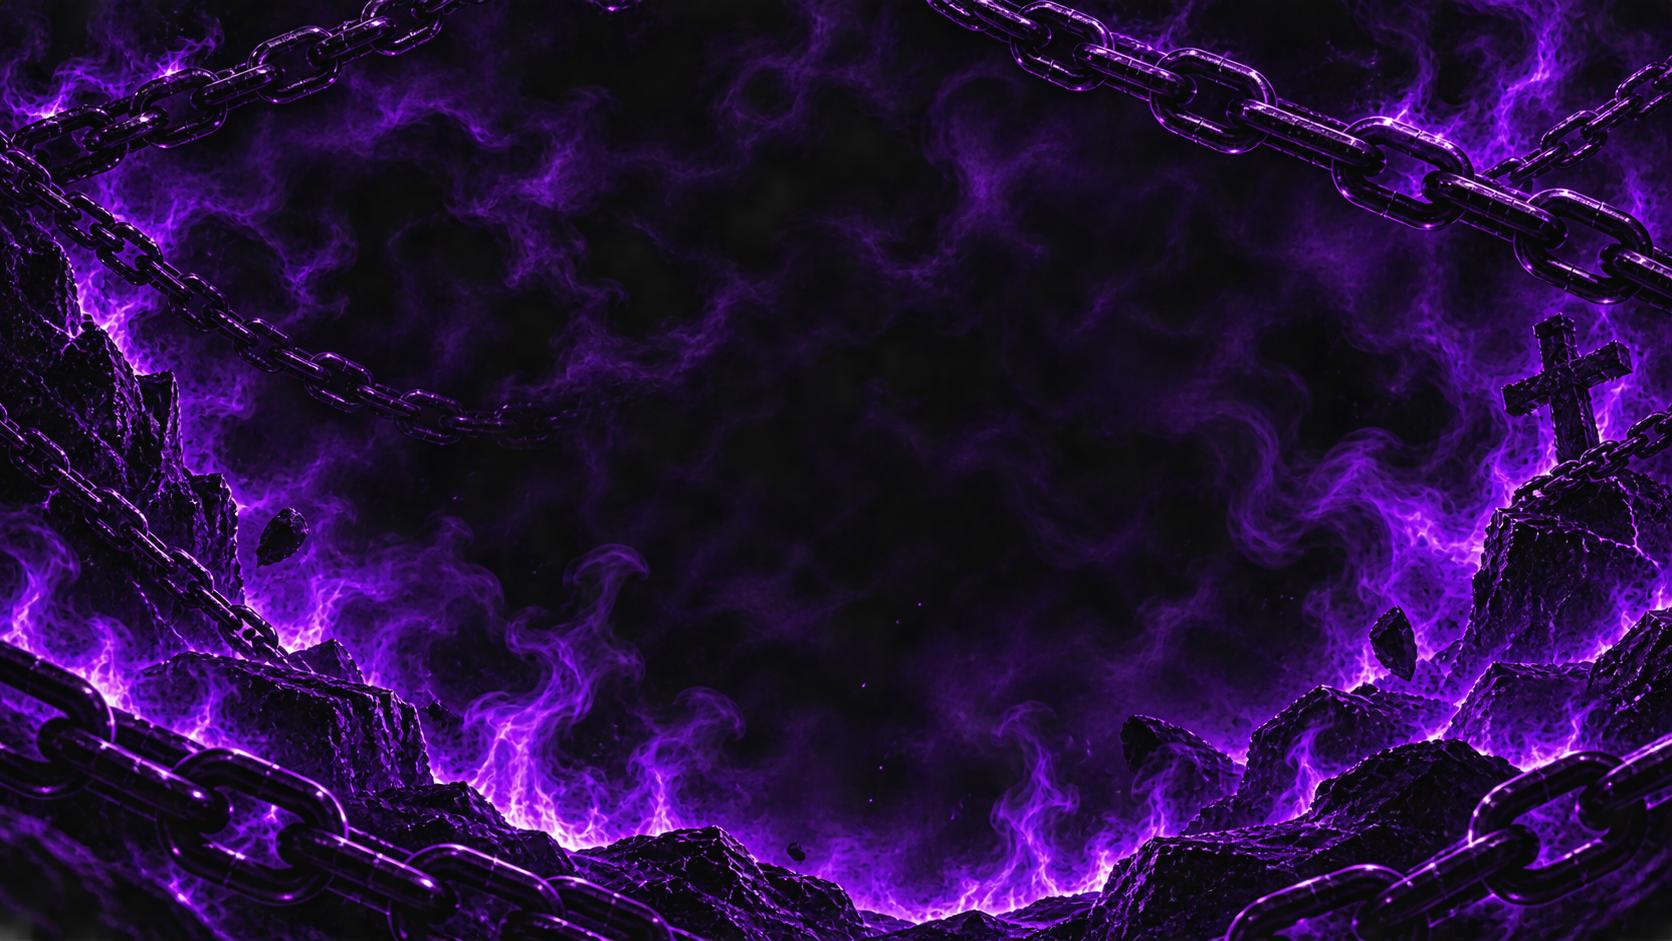
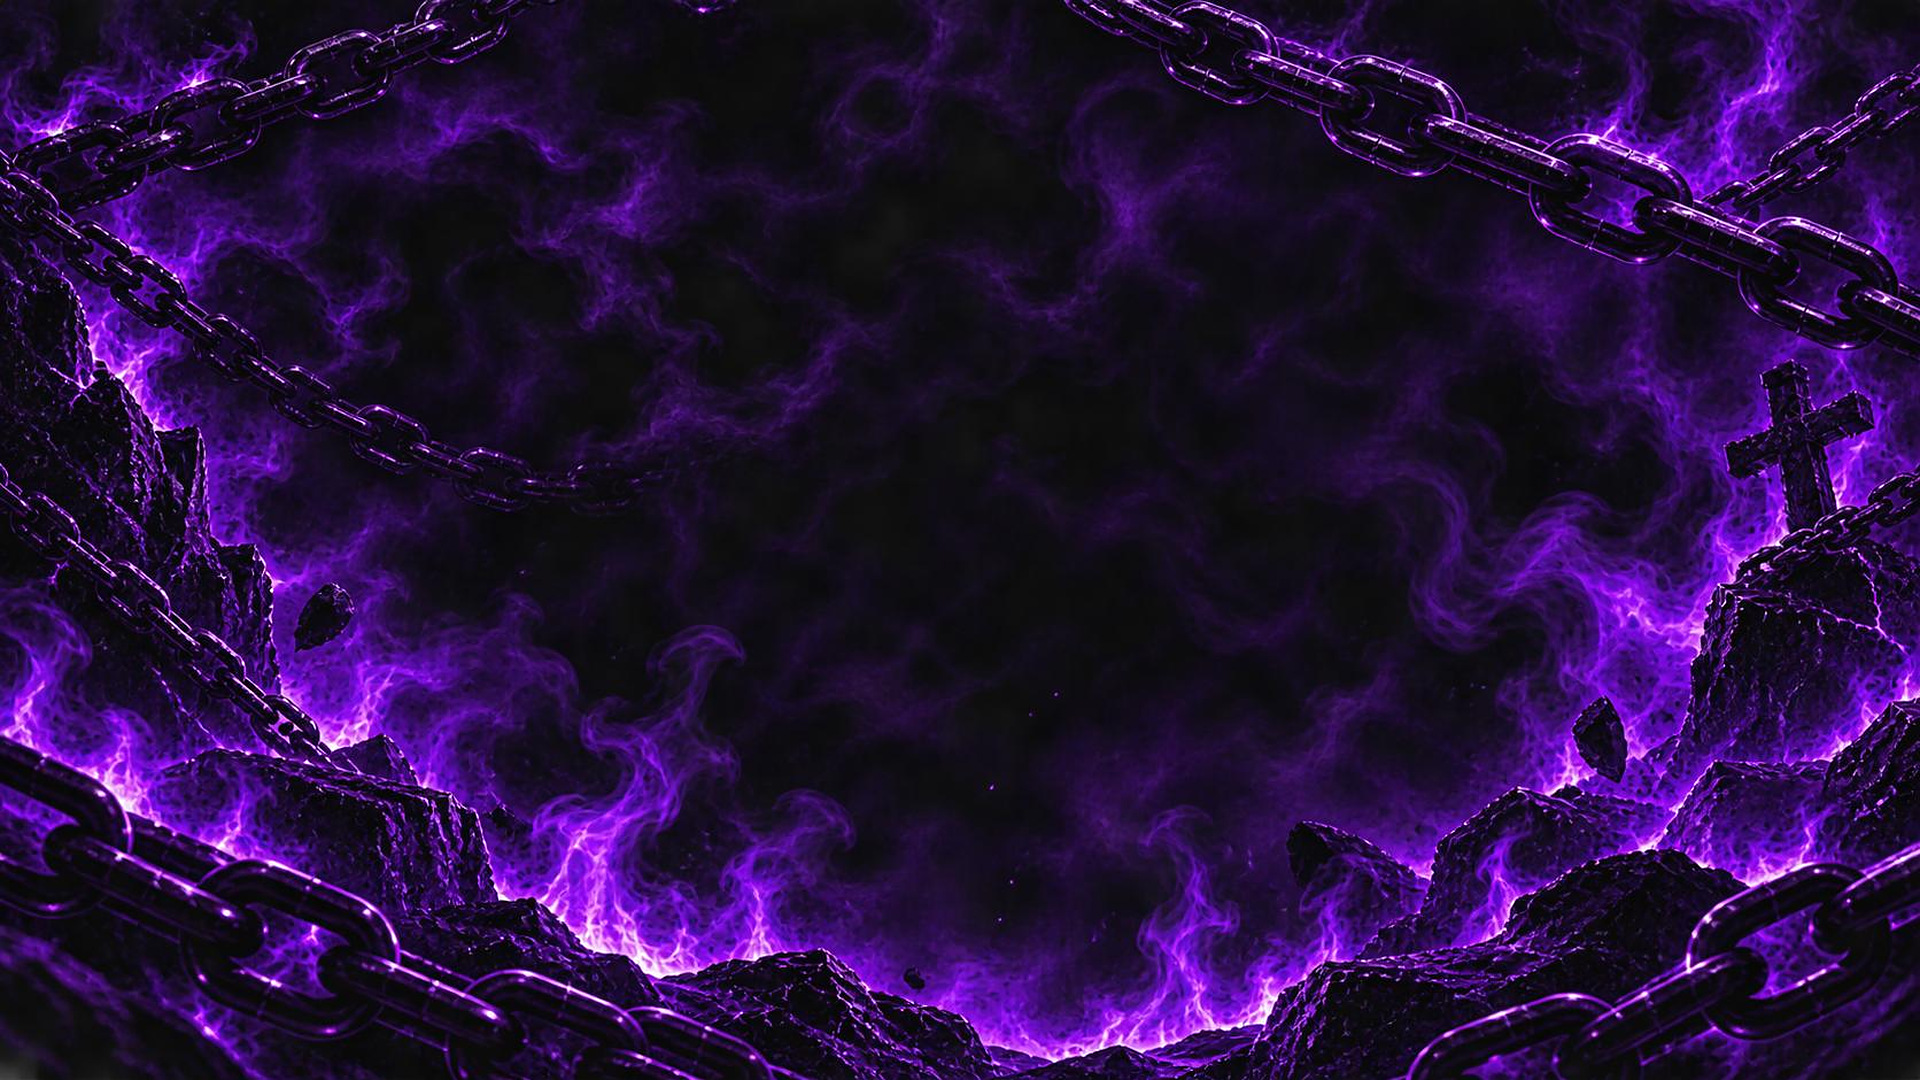
Add files via upload

diff --git a/index.html b/index.html
@@ -4,5 +4,12 @@
 html,body{margin:0;padding:0;width:100%;height:100%;background:#d0f;overflow:hidden;font-family:Arial,sans-serif}
 #msg{position:fixed;top:40%;left:0;width:100%;text-align:center;color:#fff;font-size:42px}
 #bg{position:fixed;top:0;left:0;width:100%;height:100%;background:#000 url("bg.jpg") center center no-repeat;-webkit-background-size:cover;background-size:cover}
+#tick{position:fixed;right:0;bottom:0;width:2px;height:2px;background:#000;opacity:.5}
 </style></head>
-<body><div id="msg">Loading page works, but the picture did not load</div><div id="bg"></div></body></html>
+<body><div id="msg">Loading page works, but the picture did not load</div><div id="bg"></div><div id="tick"></div>
+<script>
+// The game's loading browser only repaints a page when something changes, so a tiny corner dot keeps changing.
+var t=document.getElementById('tick'),n=0;
+setInterval(function(){n=(n+1)%2;t.style.opacity=n?'0.5':'0.6';},100);
+</script>
+</body></html>
